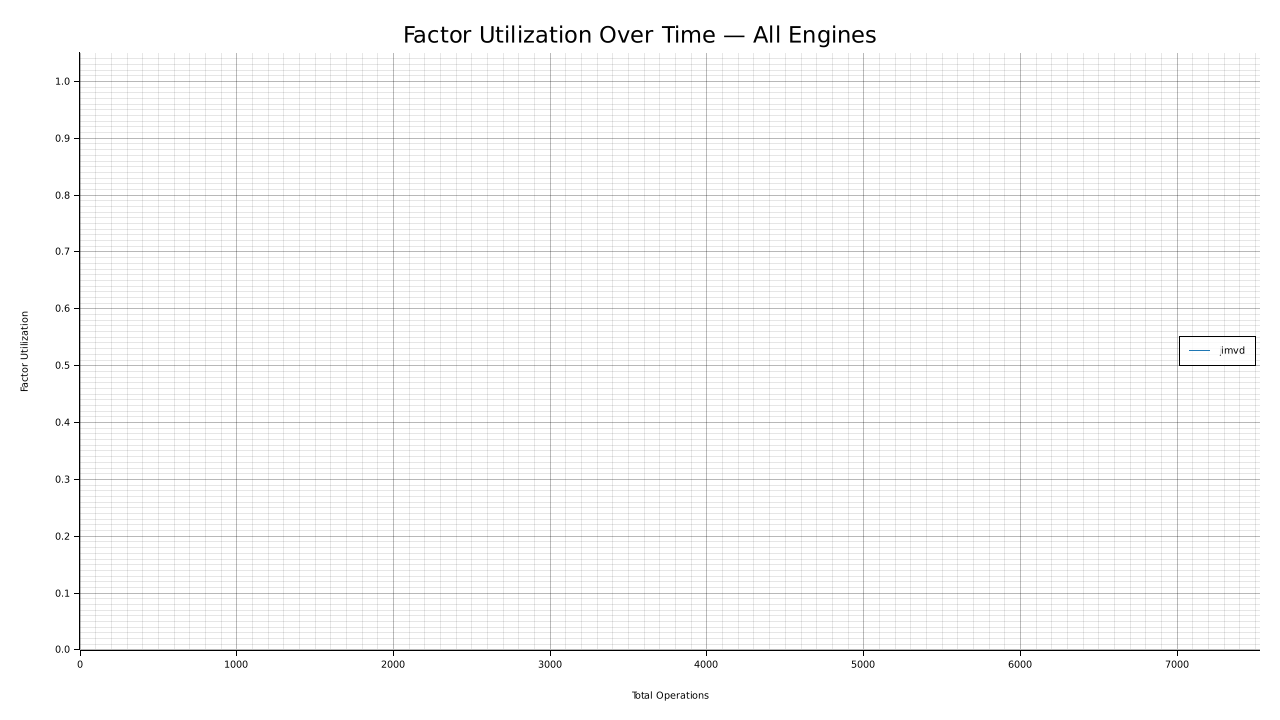
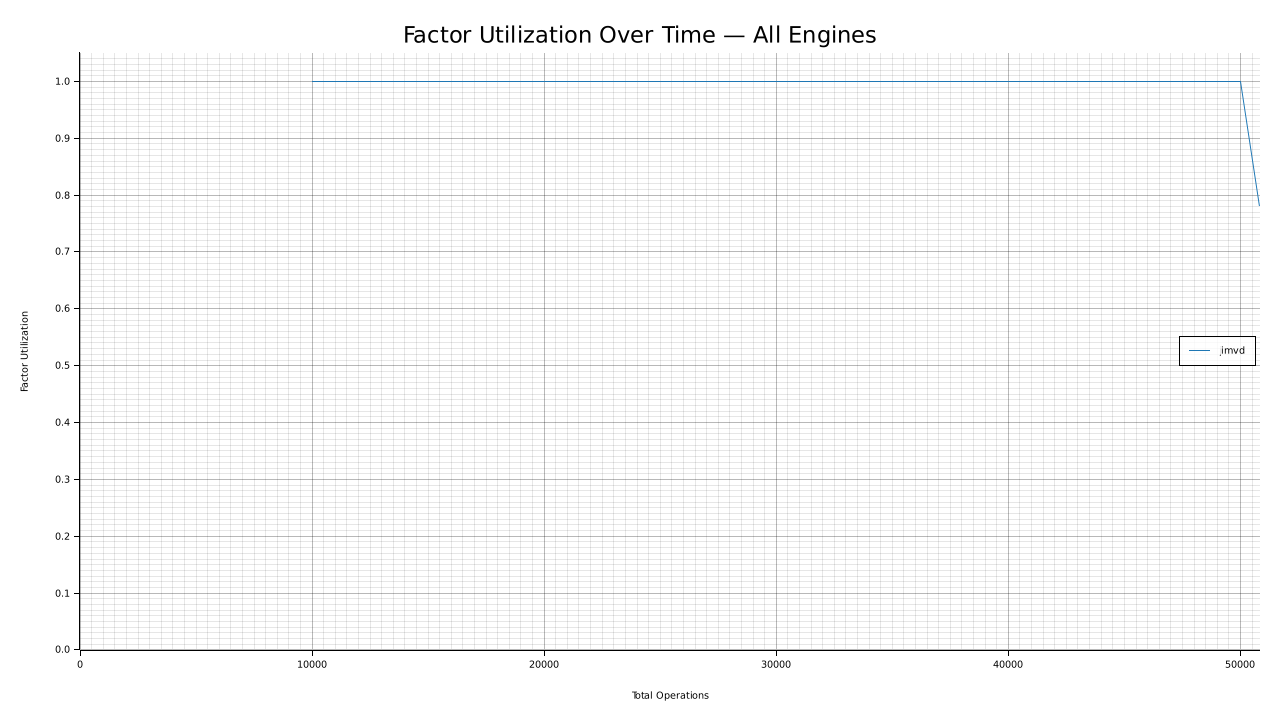
Fix O(n) scan for unknown attributes via known_attrs short-circuit
Compliance and Tenant workload phases query attributes ("policy",
"feature") that never appear in the users table. Previously each such
Eq sub-filter triggered a full O(1M) live_ids scan (~82ms), making
those phases take 75+ minutes to complete.

Add known_attrs: HashSet<String> to FactorGraph, populated on every
handle_insert and add_factor. In eval_filter_with_fallback, if the
queried attribute is absent from known_attrs and absent from BPI,
return empty immediately — no scan required.

Claude-Session: https://claude.ai/code/session_014a1mjkxPK4MTouYPM6uJUW

diff --git a/src/graph.rs b/src/graph.rs
@@ -18,6 +18,8 @@ pub struct FactorGraph {
     pub live_ids: HashSet<ObjectId>,
     /// Per-object properties not covered by any factor (usually empty)
     pub overflow: HashMap<ObjectId, HashMap<String, String>>,
+    /// All attribute names ever inserted; enables O(1) short-circuit for unknown attrs.
+    pub known_attrs: HashSet<String>,
 
     // adaptive materialisation
     pub conjunction_hits: HashMap<String, u64>,
@@ -40,6 +42,7 @@ impl FactorGraph {
             intent_index: HashMap::new(),
             live_ids: HashSet::new(),
             overflow: HashMap::new(),
+            known_attrs: HashSet::new(),
             conjunction_hits: HashMap::new(),
             factor_last_access: HashMap::new(),
             current_tick: 0,
@@ -95,6 +98,9 @@ impl FactorGraph {
         }
         for prop in &factor.intent {
             self.bpi.entry(prop.clone()).or_default().insert(factor.id);
+            if let Some((attr, _)) = prop.split_once('=') {
+                self.known_attrs.insert(attr.to_string());
+            }
         }
         let mut ikey = factor.intent.clone();
         ikey.sort();
@@ -168,6 +174,9 @@ impl FactorGraph {
         let obj_id = delta.get_object_id();
         let props = delta.get_properties();
         self.live_ids.insert(obj_id);
+        for k in props.keys() {
+            self.known_attrs.insert(k.clone());
+        }
 
         let atoms: HashSet<String> = props.iter()
             .map(|(k, v)| format!("{}={}", k, v))
@@ -333,8 +342,11 @@ impl FactorGraph {
                         }
                     }
                     (result, false)
+                } else if !self.known_attrs.contains(attribute.as_str()) {
+                    // Attribute not present in this table — skip the O(n) scan entirely.
+                    (HashSet::new(), false)
                 } else {
-                    // Not in factor space — scan live objects via reconstruction
+                    // Attribute exists but value not factorized — scan live objects.
                     let mut result = HashSet::new();
                     for &id in &self.live_ids {
                         let props = self.reconstruct_object(id);